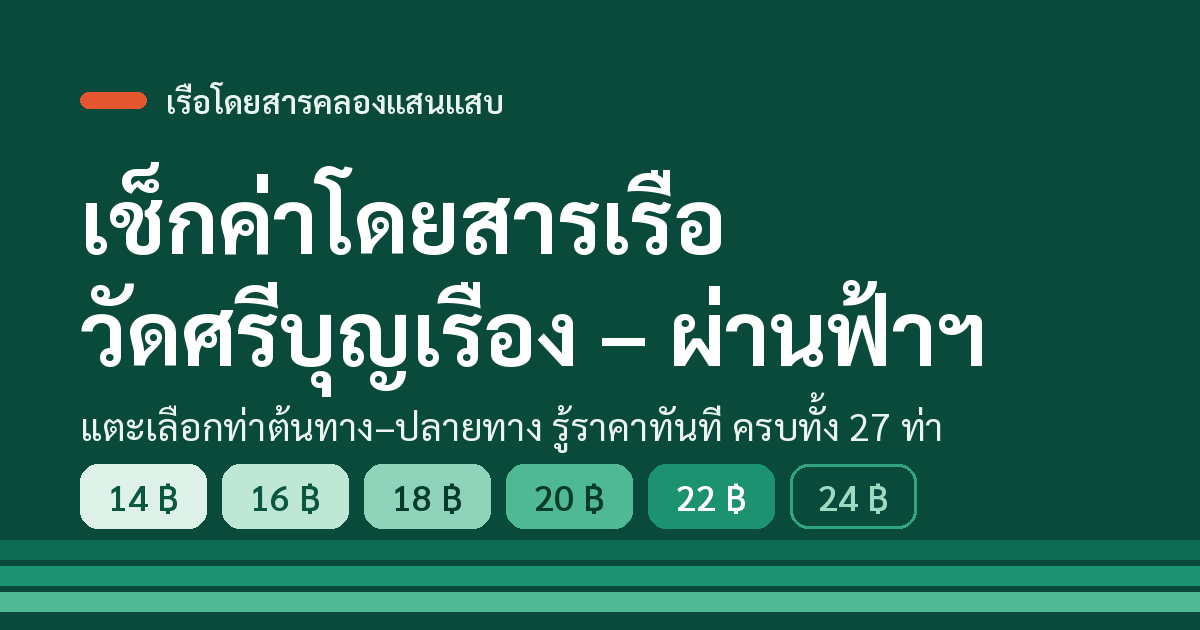
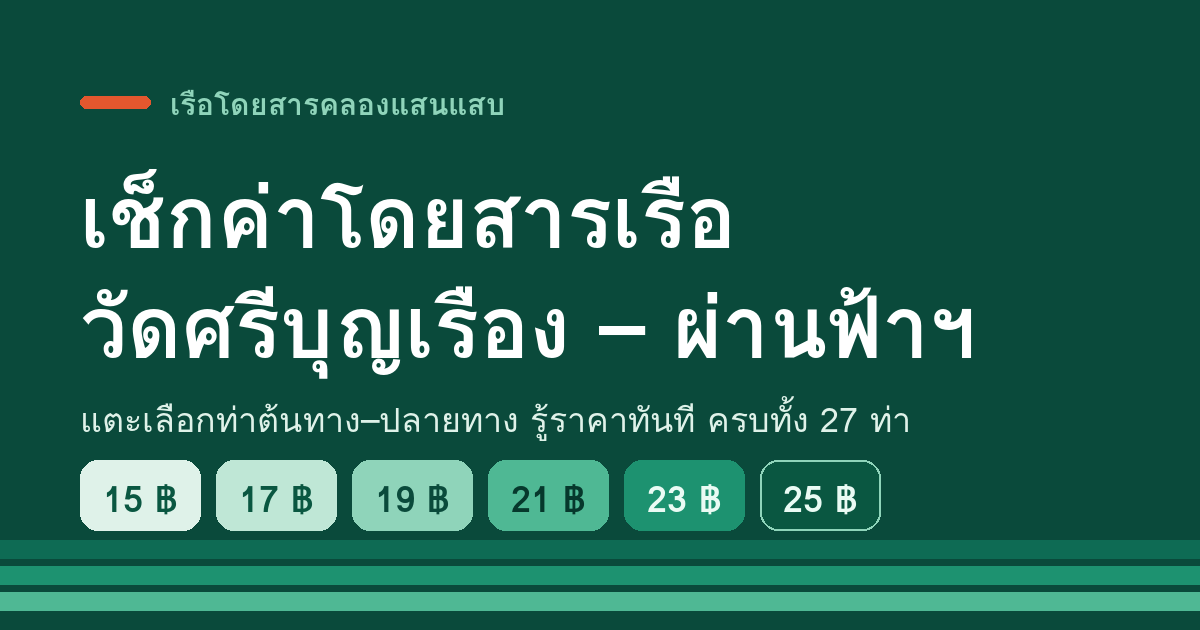
Add files via upload

diff --git a/index.html b/index.html
@@ -4,10 +4,10 @@
 <meta charset="UTF-8">
 <meta name="viewport" content="width=device-width, initial-scale=1.0">
 <title>ค่าโดยสารเรือคลองแสนแสบ</title>
-<meta name="description" content="เช็กค่าโดยสารเรือคลองแสนแสบ ผ่านฟ้าฯ–วัดศรีบุญเรือง ครบ 27 ท่า แตะเลือกต้นทาง-ปลายทาง รู้ราคาทันที">
+<meta name="description" content="เช็กค่าโดยสารเรือคลองแสนแสบ วัดศรีบุญเรือง–ผ่านฟ้าฯ ครบ 27 ท่า แตะเลือกต้นทาง-ปลายทาง รู้ราคาทันที">
 <meta property="og:type" content="website">
 <meta property="og:title" content="เช็กค่าโดยสารเรือคลองแสนแสบ ครบ 27 ท่า">
-<meta property="og:description" content="แตะเลือกท่าต้นทาง-ปลายทาง รู้ราคาทันที ผ่านฟ้าฯ–วัดศรีบุญเรือง">
+<meta property="og:description" content="แตะเลือกท่าต้นทาง-ปลายทาง รู้ราคาทันที วัดศรีบุญเรือง–ผ่านฟ้าฯ">
 <meta property="og:url" content="https://too101.github.io/saensaep-fare/">
 <meta property="og:image" content="https://too101.github.io/saensaep-fare/og-image.png">
 <meta property="og:image:width" content="1200">
@@ -290,9 +290,9 @@ label{display:block;font-size:12.5px;font-weight:600;color:var(--ink-soft);margi
    ระบบจะแสดงเวอร์ชันในหน้าเว็บ และใช้วันที่เทียบกับ commit ล่าสุด
    บน GitHub เพื่อแจ้งผู้ใช้ให้รีเฟรชเมื่อมีเวอร์ชันใหม่กว่า
    ============================================================ */
-const BASE_FARE = 14;
-const APP_VERSION = "2.4";
-const APP_UPDATED = "2026-08-06";   /* รูปแบบ ปี-เดือน-วัน (ค.ศ.) */
+const BASE_FARE = 15;
+const APP_VERSION = "2.6";
+const APP_UPDATED = "2026-08-16";   /* รูปแบบ ปี-เดือน-วัน (ค.ศ.) */
 
 const piers=[
 ["ผ่านฟ้าลีลาศ",""],["ตลาดโบ๊เบ๊",""],["สะพานเจริญผล",""],["สะพานหัวช้าง",""],["ประตูน้ำ"," (Center Pier)"],
